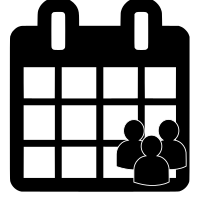
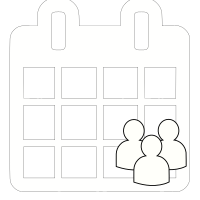
Arreglar detalles visuales en calendarios

diff --git a/index.html b/index.html
@@ -24,13 +24,13 @@
         </p>
         <div class="scontainer">
           <a class="sbtn-alt3" href="/calendario-electoral/">
-            <img src="/img/calendario-electoral.png" class="transp" />
+            <img src="/img/calendario-electoral.png" class="transp2" />
             Calendario Electoral
           </a>
         </div>
         <div class="scontainer">
           <a class="sbtn-alt3" href="/calendario-capacitacion/">
-            <img src="/img/calendario-capacitacion.png" class="transp" />
+            <img src="/img/calendario-capacitacion.png" class="transp2" />
             Calendario de Capacitación
           </a>
         </div>

diff --git a/css/calendario/index.css b/css/calendario/index.css
@@ -302,8 +302,8 @@
 }
 
 .popup {
-  margin: 70px auto;
-  padding: 20px;
+  margin: 30vh auto;
+  padding: 1.5rem;
   background: #ffff;
   border-radius: 1rem;
   width: 80%;
@@ -324,7 +324,7 @@
   top: 0;
   right: 0.5rem;
   transition: color 200ms;
-  font-size: 30px;
+  font-size: 2rem;
   font-weight: bold;
   text-decoration: none;
   color: #333;

diff --git a/css/index.css b/css/index.css
@@ -626,6 +626,10 @@ footer > .licencia {
   opacity: 0.25;
 }
 
+.transp2 {
+  opacity: 0.75;
+}
+
 .modulo-info {
   padding: 2rem;
 }
